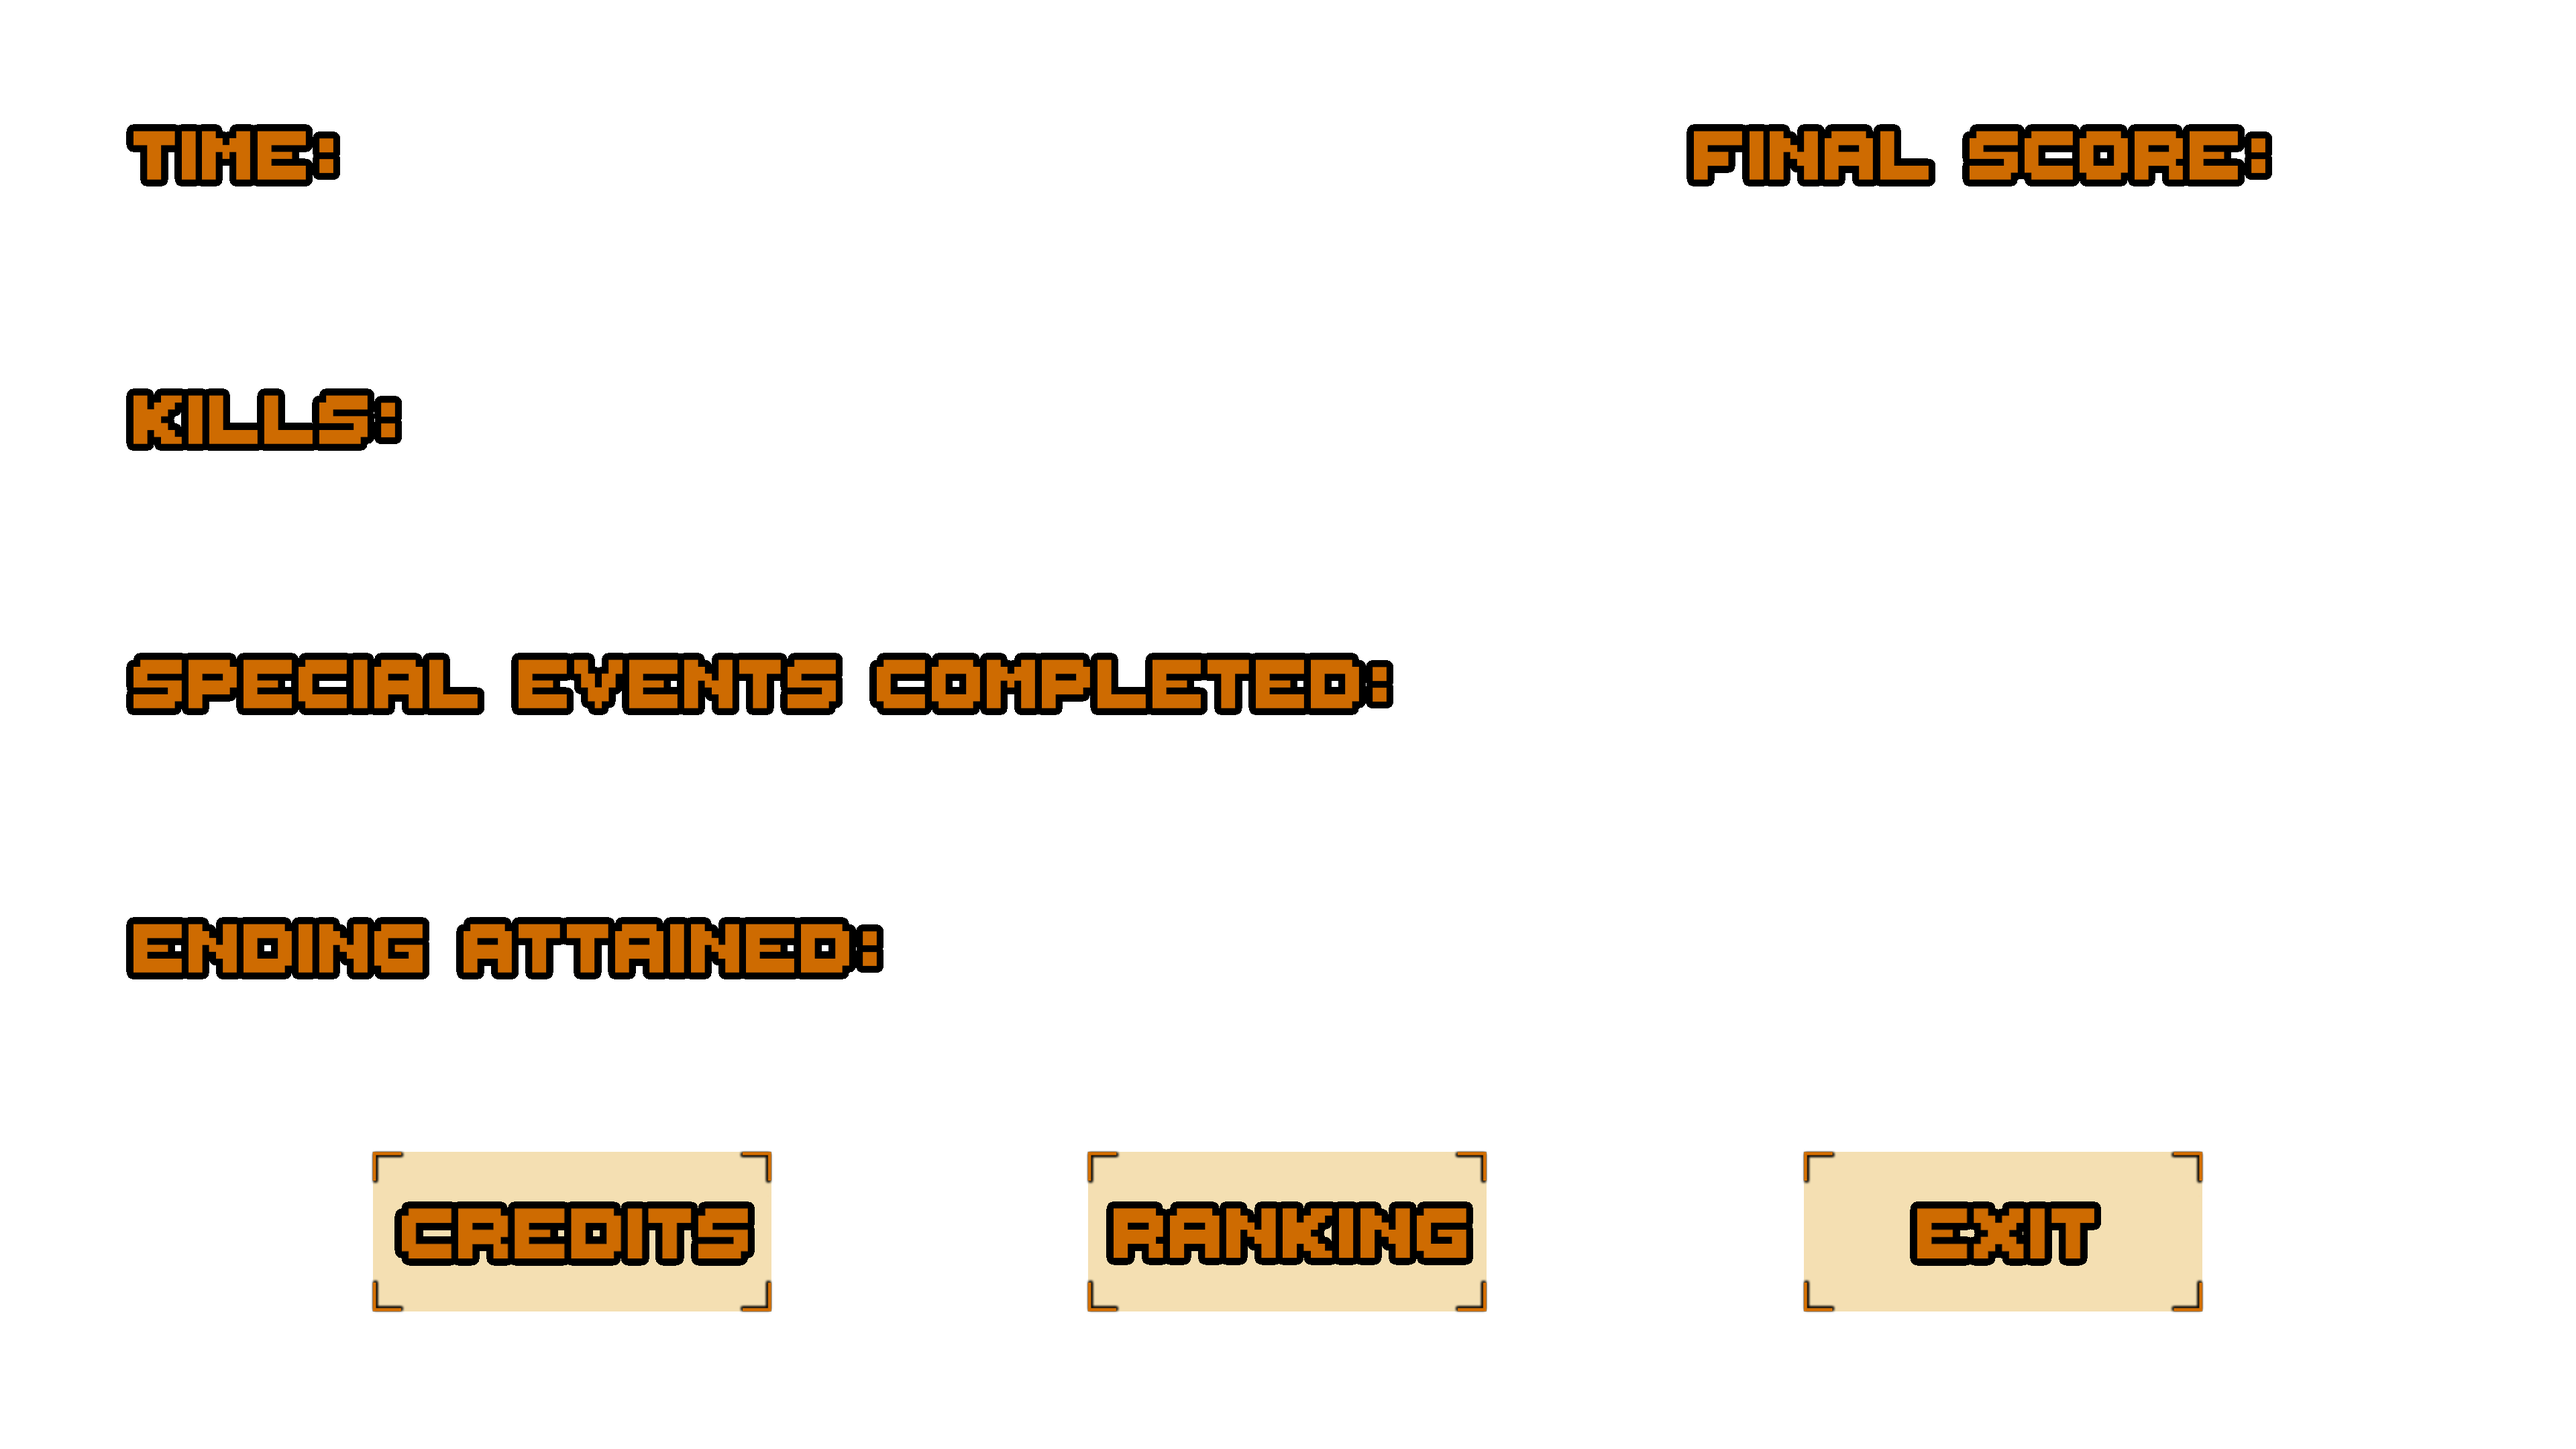
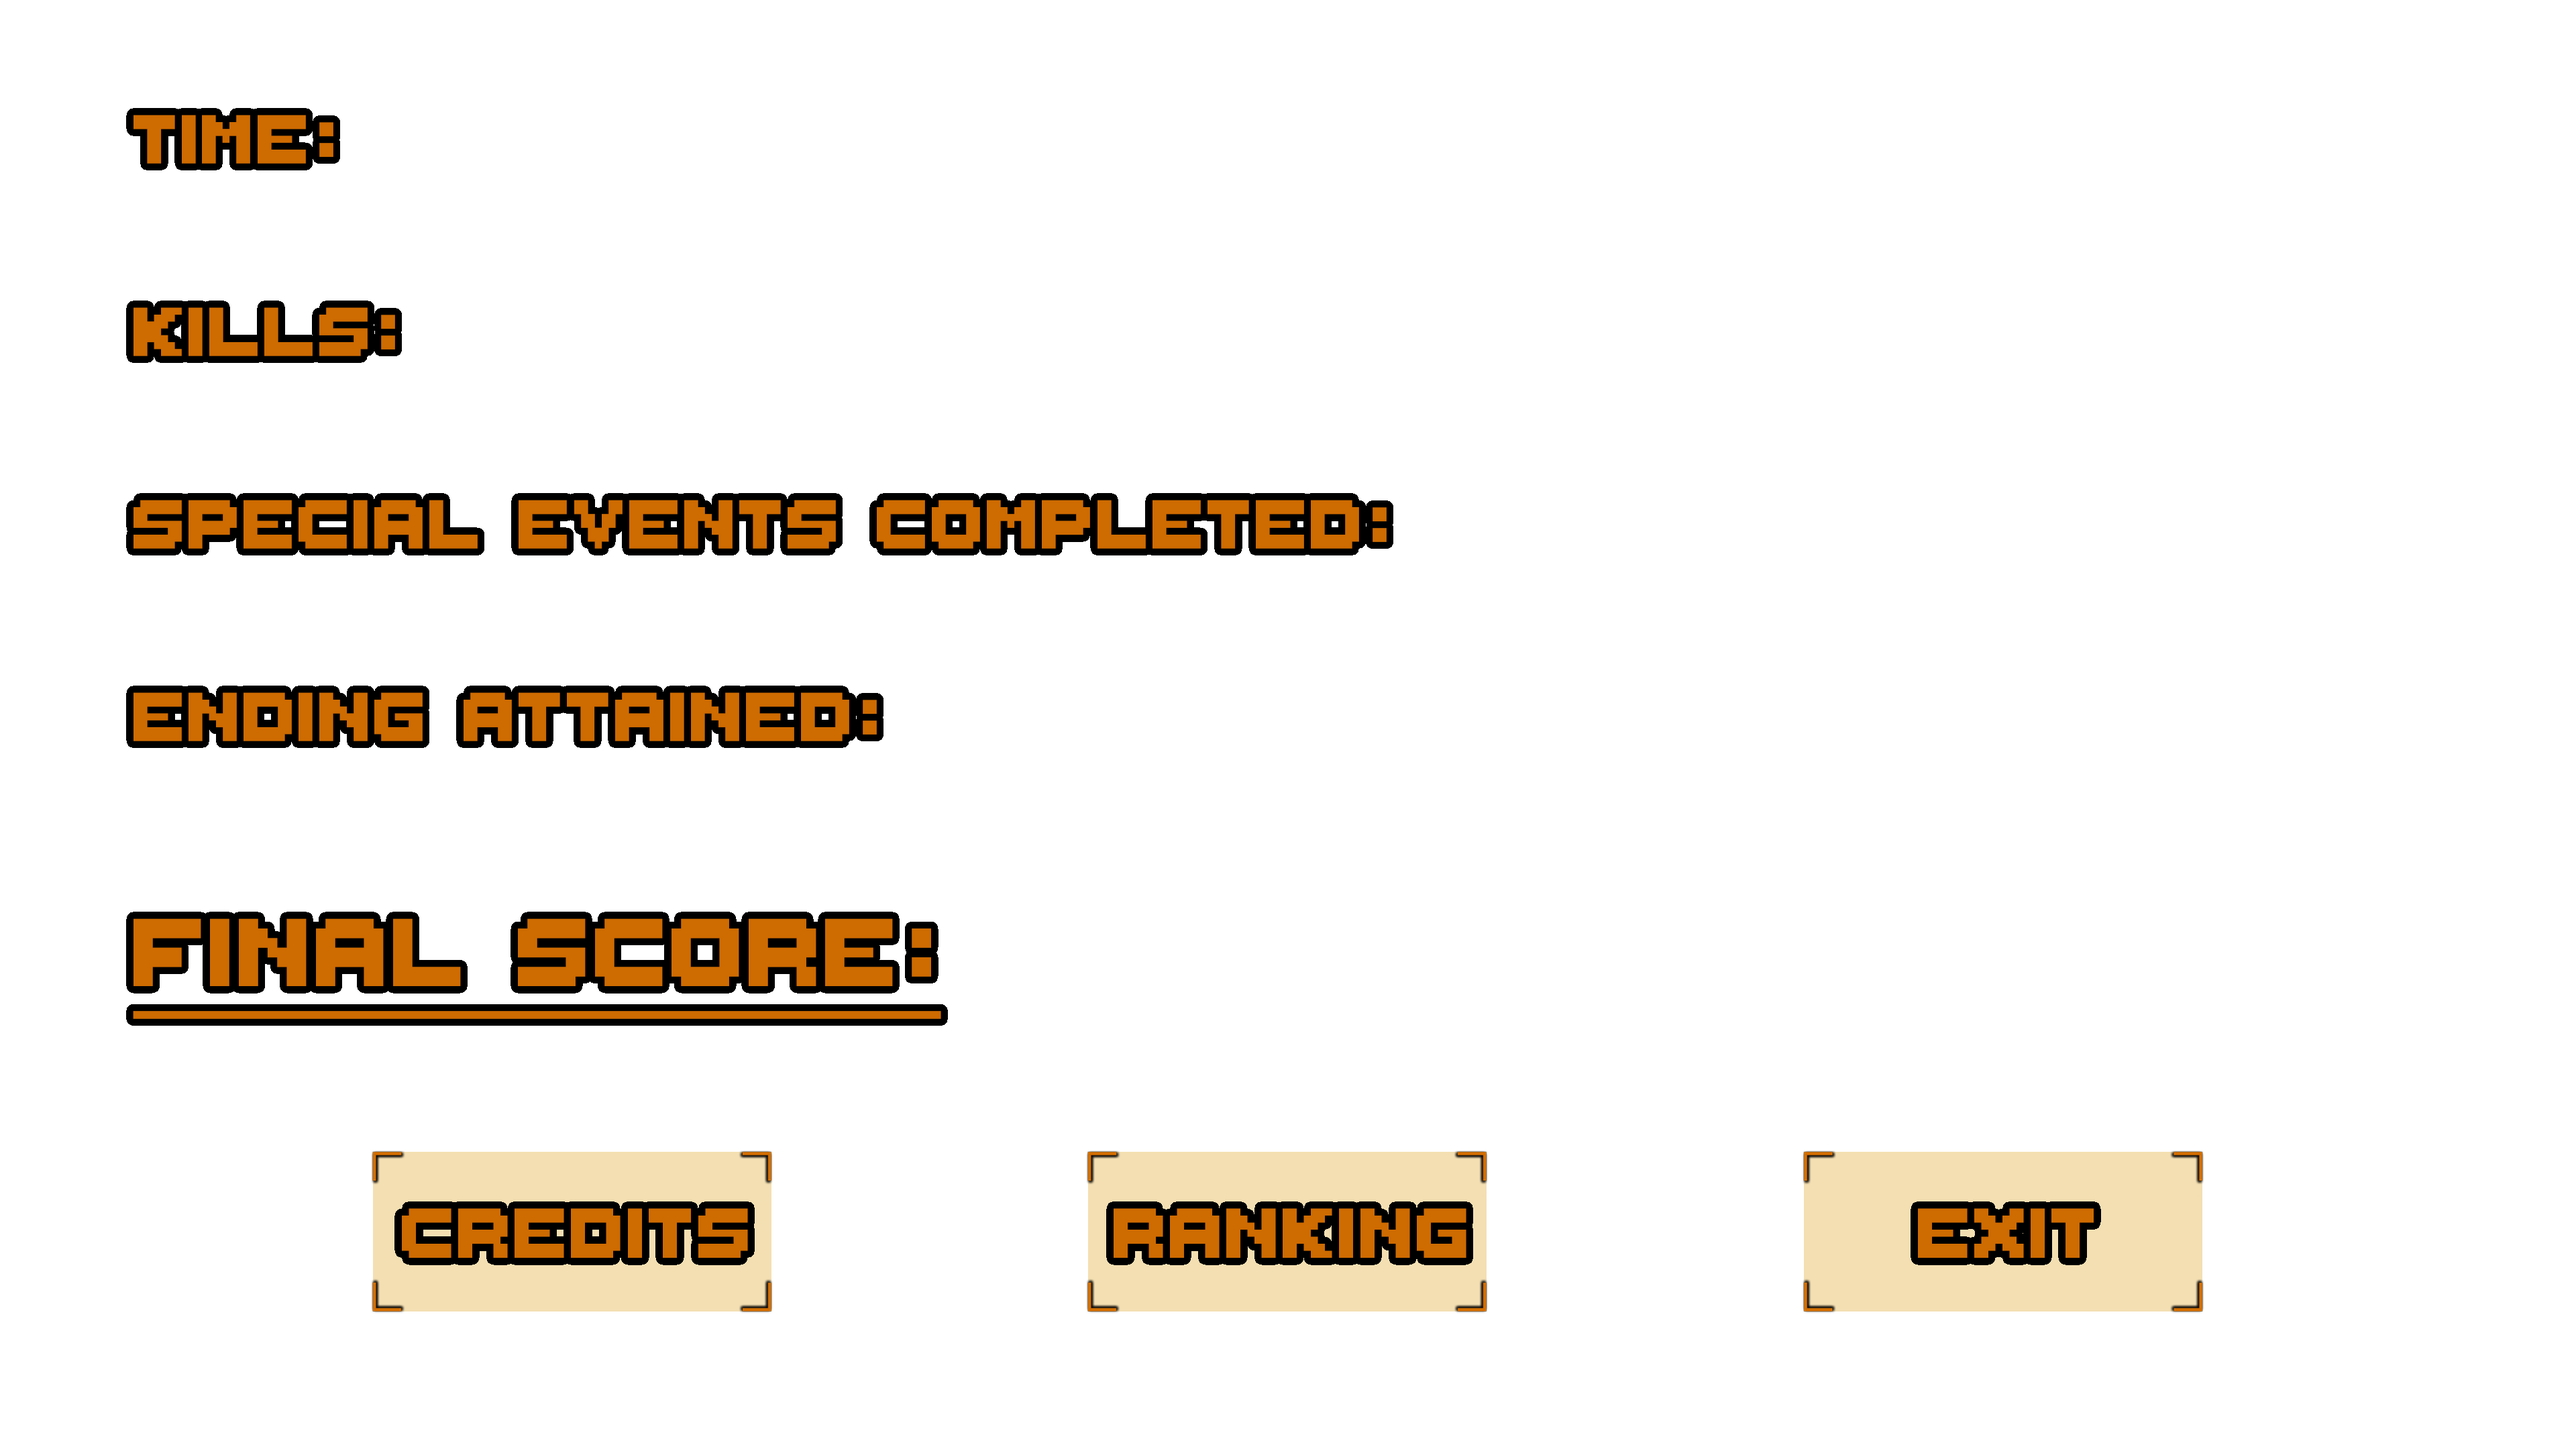
Cambio formato Score Screen

diff --git a/src/Scenes/SceneSplashScreen.js b/src/Scenes/SceneSplashScreen.js
@@ -67,7 +67,7 @@ export default class SceneSplashScreen extends Phaser.Scene {
     //this.scene.start("levelBoss1");
 
     //SI SE QUIERE IR AL NIVEL DE PRUEBA
-    this.scene.start("test1");
+    this.scene.start("SceneScore");
   }
 
 }
